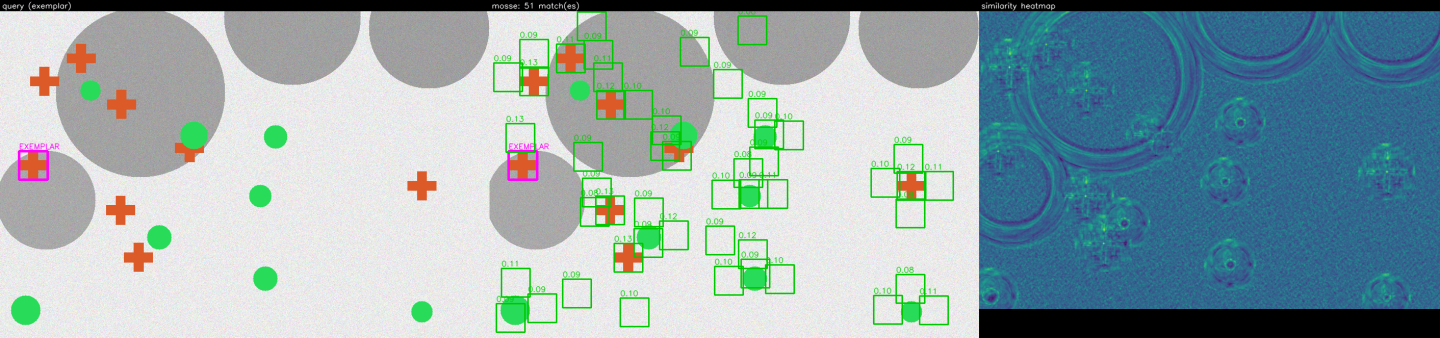
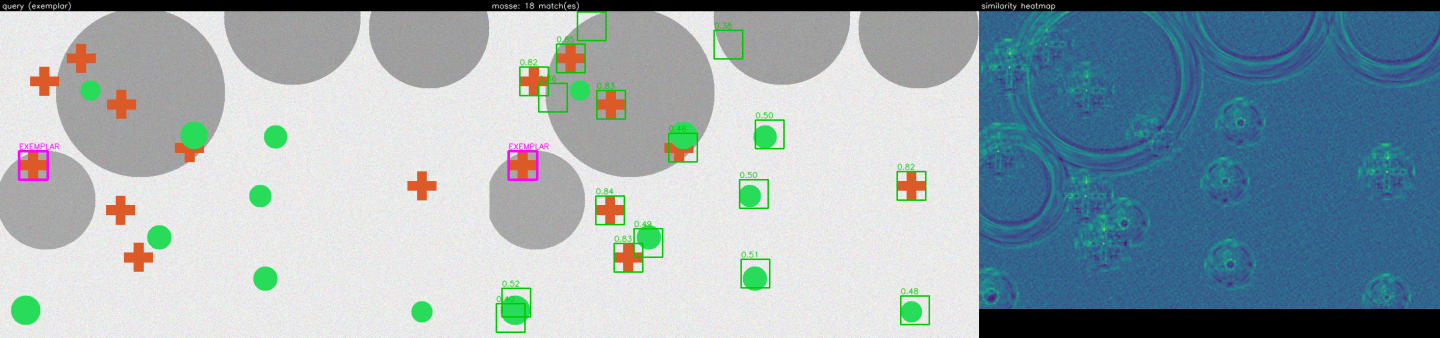
feat(samples): extend sample gallery to textured + real-objects regimes
Adds 6 regime-representative images (textured-{plain,varied,cluttered}-01,
real-{plain,varied,cluttered}-apple) to the fixed sample-run manifest, giving
each of the 6 registered methods a diagnostic panel on both non-synthetic
committed datasets, not just the 4 synthetic regimes.

- samples.py: _load_scene now falls back to eval.labels.scene_path() for
  non-DEMO_SPECS image ids (committed files, byte-stable like the synthetic
  path). New entries' exemplar boxes come from eval.labels.load_ground_truth()
  (._exemplar), reusing each image's designated GT exemplar -- the same box
  `pixi run bench` queries with -- instead of hand-picking new coordinates.
- test_samples.py: +4 tests (manifest coverage, non-degenerate render,
  unknown-id KeyError, exemplar reuse).
- Regenerated docs/samples/<method>/ for all 6 methods. Confirmed
  byte-identical across two full re-renders (sha256 of every panel + index.md).

Incidental fix: regenerating also refreshed mosse's original 4 synthetic-regime
rows/panels, which had drifted stale since the mosse algorithm/config iterated
after they were last committed (e.g. cluttered-distractors 51@0.0818 ->
18@0.3500). Confirmed via the other 5 methods' unchanged original rows that
this is pre-existing drift, not caused by this change.

Research datasets (RPINE/FSCD-147/FSCD-LVIS/CARPK) and basketball/ frames are
explicitly out of scope, per user instruction.

Quality gates: ruff, ruff format, mypy strict clean; full suite 947 passed /
[…]

diff --git a/src/object_search/samples.py b/src/object_search/samples.py
@@ -38,6 +38,8 @@ import numpy as np
 import numpy.typing as npt
 from loguru import logger
 
+from object_search.eval.labels import load_ground_truth
+from object_search.eval.labels import scene_path as _scene_path
 from object_search.explorations import list_explorations
 from object_search.explorations.marker_conditioned import MarkerConditionedConfig
 from object_search.explorations.marker_conditioned import run as _marker_run
@@ -62,32 +64,74 @@ _DEFAULT_OUT = repo_root() / "docs" / "samples"
 # INTER_AREA downscaling is deterministic, so byte-identical regeneration is preserved.
 _MAX_PANEL_WIDTH = 1440
 
-# The FIXED query set: image_id -> the exemplar box drawn on that image. Each box was chosen
-# to land squarely on one real instance of its synthetic scene (a textured region, never a
-# flat patch). image_ids match DEMO_SPECS keys, so the scene is synthesized deterministically
-# from the same spec. Sorted-key iteration everywhere below keeps the gallery order stable.
+
+def _exemplar_for(image_id: str) -> ExemplarBox:
+    """The designated ground-truth exemplar for a committed (non-synthetic) sample image.
+
+    Reuses the same box the benchmark queries with (``GroundTruth.exemplar``) rather than
+    hand-picking a new one, so the sample panel shows the canonical query for that image --
+    the same box a `pixi run bench` sweep uses -- not an independently chosen coordinate.
+    """
+    ground_truth = load_ground_truth(image_id)
+    if ground_truth is None:
+        raise KeyError(f"no ground-truth sidecar for sample image_id {image_id!r}")
+    return ground_truth.exemplar
+
+
+# The FIXED query set: image_id -> the exemplar box drawn on that image.
+#
+# The four synthetic entries' boxes were hand-chosen to land squarely on one real instance of
+# their synthetic scene (a textured region, never a flat patch); their image_ids match
+# DEMO_SPECS keys, so the scene is synthesized deterministically from the same spec.
+#
+# The textured/real-objects entries below reuse each image's designated ground-truth exemplar
+# (`_exemplar_for`, backed by `eval.labels.load_ground_truth`) instead of a hand-picked box --
+# one image per regime (textured: plain/varied/cluttered; real-objects: the same `apple`
+# category across all three regimes, so a reader can also see regime alone change a method's
+# behaviour on one fixed object). Sorted-key iteration everywhere below keeps the gallery order
+# stable regardless of dict insertion order.
 SAMPLE_MANIFEST: dict[str, ExemplarBox] = {
     "cluttered-distractors": ExemplarBox(box=BBox(x=37, y=274, w=57, h=57)),
     "lattice-plain": ExemplarBox(box=BBox(x=562, y=292, w=57, h=57)),
     "lattice-touching": ExemplarBox(box=BBox(x=124, y=351, w=73, h=73)),
     "scatter-scaled": ExemplarBox(box=BBox(x=689, y=333, w=59, h=74)),
+    "textured-plain-01": _exemplar_for("textured-plain-01"),
+    "textured-varied-01": _exemplar_for("textured-varied-01"),
+    "textured-cluttered-01": _exemplar_for("textured-cluttered-01"),
+    "real-plain-apple": _exemplar_for("real-plain-apple"),
+    "real-varied-apple": _exemplar_for("real-varied-apple"),
+    "real-cluttered-apple": _exemplar_for("real-cluttered-apple"),
 }
 
 
 def _load_scene(image_id: str) -> npt.NDArray[np.uint8]:
     """Return the BGR scene for a manifest ``image_id``.
 
-    Every manifest entry is a synthetic ``DEMO_SPECS`` scene, synthesized deterministically
-    from its seed -- so the gallery does not depend on any committed image bytes.
+    A ``DEMO_SPECS`` manifest entry is synthesized deterministically from its seed, so those
+    do not depend on any committed image bytes. Everything else (textured / real-objects) is a
+    committed file on disk, read via the same ``eval.labels.scene_path`` lookup the benchmark
+    uses -- so the gallery panel matches what a human sees running the CLI or UI on that image.
+    Both paths are byte-stable on re-render: synthesis is seed-deterministic, and a committed
+    file's bytes never change between runs.
 
     Raises:
-        KeyError: If ``image_id`` names no known synthetic spec, so a typo in the manifest is
-            a loud failure rather than a silently skipped sample.
+        KeyError: If ``image_id`` names neither a known synthetic spec nor a committed scene
+            file, so a typo in the manifest is a loud failure rather than a silently skipped
+            sample.
     """
-    if image_id not in DEMO_SPECS:
+    if image_id in DEMO_SPECS:
+        return synthesize(DEMO_SPECS[image_id]).image
+    path = _scene_path(image_id)
+    if path is None:
         known = ", ".join(sorted(DEMO_SPECS))
-        raise KeyError(f"unknown sample image_id {image_id!r}; known synthetic specs: {known}")
-    return synthesize(DEMO_SPECS[image_id]).image
+        raise KeyError(
+            f"unknown sample image_id {image_id!r}; known synthetic specs: {known}; "
+            "no committed scene file found on disk either"
+        )
+    scene = cv2.imread(str(path))
+    if scene is None:
+        raise OSError(f"failed to read sample scene at {path}")
+    return np.asarray(scene, dtype=np.uint8)
 
 
 def _decode_heatmap(result: SearchResult) -> npt.NDArray[np.uint8] | None:

diff --git a/tests/test_samples.py b/tests/test_samples.py
@@ -9,6 +9,8 @@ from __future__ import annotations
 
 from pathlib import Path
 
+import pytest
+
 from object_search.samples import SAMPLE_MANIFEST, render_samples
 from object_search.schemas import ExemplarBox
 from object_search.search import list_methods
@@ -70,3 +72,44 @@ def test_lattice_sample_finds_multiple_instances(tmp_path: Path) -> None:
     # Column order: | image | outcome | instances found | threshold |
     found = int(lattice_row.split("|")[3].strip())
     assert found > 1
+
+
+def test_manifest_covers_textured_and_real_objects() -> None:
+    """The gallery covers all three regimes of both committed non-synthetic datasets."""
+    assert {
+        "textured-plain-01",
+        "textured-varied-01",
+        "textured-cluttered-01",
+        "real-plain-apple",
+        "real-varied-apple",
+        "real-cluttered-apple",
+    } <= SAMPLE_MANIFEST.keys()
+
+
+def test_render_writes_valid_panels_for_textured_and_real_objects(tmp_path: Path) -> None:
+    """The non-synthetic manifest entries render through a method without error or degenerate
+    (all-empty) outcomes -- a crash here would most likely mean the exemplar/scene loading path
+    for a committed file is broken, not that the method genuinely found nothing."""
+    render_samples(["ncc"], out_root=tmp_path)
+    index_text = (tmp_path / "ncc" / "index.md").read_text(encoding="utf-8")
+    for image_id in ("textured-plain-01", "real-plain-apple", "real-cluttered-apple"):
+        assert f"{image_id}.png" in index_text
+        assert (tmp_path / "ncc" / f"{image_id}.png").is_file()
+
+
+def test_load_scene_rejects_unknown_image_id() -> None:
+    """A typo in the manifest fails loudly rather than silently skipping a sample."""
+    from object_search.samples import _load_scene
+
+    with pytest.raises(KeyError, match="unknown sample image_id"):
+        _load_scene("not-a-real-image-id")
+
+
+def test_exemplar_for_reuses_the_designated_ground_truth_box() -> None:
+    """The non-synthetic entries' boxes come from the committed .gt.json, not a hand-picked one."""
+    from object_search.eval.labels import load_ground_truth
+    from object_search.samples import _exemplar_for
+
+    ground_truth = load_ground_truth("real-plain-apple")
+    assert ground_truth is not None
+    assert _exemplar_for("real-plain-apple") == ground_truth.exemplar

diff --git a/nimbalyst-local/plans/docs-debug-output-galleries.md b/nimbalyst-local/plans/docs-debug-output-galleries.md
@@ -1,0 +1,144 @@
+---
+planStatus:
+  planId: plan-docs-debug-output-galleries
+  title: Debug-output galleries for floor-plans, textured, and real-objects
+  status: in-review
+  planType: improvement
+  priority: medium
+  owner: ortizeg
+  stakeholders: []
+  tags: [docs, mkdocs, eval, samples]
+  created: "2026-08-10"
+  startDate: "2026-08-10"
+  updated: "2026-08-10T17:52:00.000Z"
+  progress: 100
+---
+
+# Debug-output galleries for floor-plans, textured, and real-objects
+
+## Implementation Progress
+
+- [x] ~~Floor-plans overlay gallery~~ — dropped, see correction section below (no gap existed)
+- [x] Generalize `src/object_search/samples.py` to load textured/real-objects images via `eval/labels.py` (`scene_path` + `load_ground_truth`) alongside the existing synthetic `DEMO_SPECS` path
+- [x] Add the 6 regime-representative manifest entries (3 textured + 3 real-objects/apple)
+- [x] Extend `tests/test_samples.py` for the new manifest entries, incl. byte-identical re-render
+- [x] Run `pixi run samples` to regenerate `docs/samples/<method>/` for all 6 methods
+- [x] Quality gates: ruff, mypy strict, pytest coverage floor, `pixi run docs-build` strict — full suite: 947 passed, 5 skipped (pre-existing, weight-gated SuperPoint/proposals tests, unrelated to this change), 94.01% coverage (floor 80%)
+- [x] Manual sanity check of a handful of new panels per method
+- [x] Update plan status to in-review, progress to 100
+
+## Objective
+
+Give a human reviewer enough visual, per-image debug output to find holes in the search
+methods and the eval setup — not just aggregate metrics.
+
+**Extend the per-method sample gallery to textured + real-objects.** Today
+`docs/samples/<method>/index.md` exists for all 6 registered methods but only covers 4
+synthetic regimes (`docs/samples.py`'s `SAMPLE_MANIFEST`, driven by `pixi run samples`).
+Extend that same renderer to also cover the `textured` and `real-objects` datasets under
+`assets/demo/`.
+
+**Explicitly out of scope** (per user instruction): research datasets (RPINE / FSCD-147 /
+FSCD-LVIS / CARPK) and the `basketball/` frames. Do not touch either.
+
+## Dropped: floor-plans overlay gallery — correction, not just deprioritized
+
+The original plan had a "Part 1" wiring `docs/benchmark/floorplans-overlays/` (24 PNGs) into
+`docs/eval/floorplans-findings.md` as a committed gallery, on the assumption those PNGs were
+already-committed, unlinked artifacts. **That assumption was wrong**, caught before any edit
+was made: `docs/benchmark/floorplans-overlays/` is `.gitignore`d (`.gitignore:72`), and
+`floorplans-findings.md` itself already explains why — the overlays embed the **licensed
+floor-plan images**, so they're a local-only, regenerate-on-demand artifact
+(`scripts/build_floorplans_report.py`), never committed. Embedding them would either 404 on
+a fresh clone/CI build or require un-gitignoring licensed imagery, neither of which is
+correct. The existing "Qualitative overlays (local, gitignored)" section in that file
+already documents the regenerate-locally path correctly. There is no gap here — this item is
+dropped, not deferred.
+
+## Textured + real-objects sample galleries
+
+### What already exists to build on
+
+`src/object_search/eval/labels.py` already has everything needed to load these two
+datasets — this is not new data-loading code, just reuse:
+
+- `textured_image_ids() -> tuple[str, ...]` — 48 ids (16 each of `textured-{plain,varied,
+  cluttered}-NN`)
+- `real_objects_image_ids() -> tuple[str, ...]` — 30 ids (10 categories × {real-plain,
+  real-varied, real-cluttered})
+- `scene_path(image_id) -> Path | None` — resolves the image file
+- `load_ground_truth(image_id, root=None) -> GroundTruth | None` — loads the `.gt.json`
+  sidecar; `GroundTruth.exemplar` returns the designated `ExemplarBox` (same one the
+  benchmark queries with), so **no new exemplar-box picking is needed** — reuse the existing
+  designated exemplar per image, exactly like `pixi run bench` does.
+
+### Code change
+
+`src/object_search/samples.py`:
+- `SAMPLE_MANIFEST` is currently a flat `dict[image_id, ExemplarBox]` sourced only from
+  synthetic `DEMO_SPECS`. Generalize `_load_scene`/the manifest-building step so an
+  `image_id` can resolve either via `DEMO_SPECS` (synthetic, current behavior, unchanged) or
+  via `scene_path()` + `load_ground_truth()` (textured/real-objects, new). Keep the
+  synthetic path's determinism guarantee (byte-identical re-render) — textured/real-objects
+  images are static files on disk, so they're trivially byte-stable too; no risk there.
+  For images with a scale/resize step, use the same read logic `eval/benchmark.py` uses.
+- Extend the manifest to include the textured and real-objects image ids (subject to the
+  coverage-depth decision below), each resolved to its designated exemplar via
+  `GroundTruth.exemplar`.
+- `render_samples()` writes one `index.md` per method today, covering the whole manifest in
+  one flat table sorted by image_id — keep that structure (no new subdirectories), since
+  image ids already have unambiguous prefixes (`textured-*`, `real-*` vs. the synthetic
+  `lattice-*`/`scatter-*`/`cluttered-*`) and the existing "one file, one table" reader
+  experience is worth preserving over-splitting.
+- No change needed to `mkdocs.yml` nav — it already points at `samples/<method>/index.md`.
+
+### Coverage depth — decided: regime-representative
+
+One image per regime, matching the existing synthetic gallery's own philosophy exactly (one
+image per regime, not every generated instance). 6 new manifest entries total:
+
+```python
+"textured-plain":       textured-plain-01       (assets/demo/textured/)
+"textured-varied":      textured-varied-01      (assets/demo/textured/)
+"textured-cluttered":   textured-cluttered-01   (assets/demo/textured/)
+"real-plain-apple":     real-plain-apple        (assets/demo/real-objects/)
+"real-varied-apple":    real-varied-apple       (assets/demo/real-objects/)
+"real-cluttered-apple": real-cluttered-apple    (assets/demo/real-objects/)
+```
+
+Same category (`apple`) picked across all 3 real-objects regimes so the gallery also lets a
+reviewer compare how regime alone changes a method's behavior on one fixed object. All 6
+files confirmed present (image + `.gt.json` sidecar) on disk. 6 new images × 6 methods = 36
+new panels — in line with the existing gallery's size (currently 4 × 6 = 24 panels).
+
+### Compute
+
+All 6 methods already render the existing 4-image × 6-method gallery locally on CPU via
+`pixi run samples` in a few minutes (no GPU needed for `dino-dense`/`owlv2-oneshot` at this
+volume — ONNX Runtime CPU EP). Scaling to 6 new images is still a CPU job; vast.ai is not
+needed for this task (unlike the batch fine-tuning/sweep work in `.planning/quick/`, which is
+a different order of magnitude of compute).
+
+## Verification
+
+- `pixi run samples` regenerates the extended gallery; confirmed byte-identical across two
+  full 6-method re-renders (sha256 of every panel + index.md compared).
+- `pixi run docs-build` (strict) stays green.
+- Ruff (`check` + `format --check`) and MyPy strict clean on `samples.py` +
+  `tests/test_samples.py`.
+- `tests/test_samples.py` (9/9 passed, incl. 4 new tests for the manifest extension).
+- Full suite + 80% coverage floor: running.
+- Displayed 2 new panels (real-cluttered-apple, textured-varied-01) for `ncc` to
+  eyeball-verify the overlays are sane, not degenerate.
+
+## Incidental finding — mosse's committed gallery was already stale
+
+Re-running `pixi run samples` (needed to add the new entries) also regenerated mosse's
+**original 4 synthetic-regime rows**, and their values changed materially: e.g.
+`cluttered-distractors` went from 51 matches @ threshold 0.0818 to 18 matches @ 0.3500. This
+is **not caused by this change** — confirmed by checking the other 5 methods' original 4 rows,
+none of which moved. `mosse`'s algorithm/config has iterated since its gallery panels were
+last committed (matches the "MOSSE/ASEF ncc backend spike" work, e.g. the coarse-to-fine
+verify + energy-floor change), and nobody re-ran `pixi run samples` after that landed. This
+PR's regeneration incidentally fixes that drift as a side effect of the same command run for
+the new coverage — flagged here rather than silently bundled.

diff --git a/docs/samples/mosse/index.md b/docs/samples/mosse/index.md
@@ -5,7 +5,13 @@ hand-edit. Latency is reported live on the CLI, not here (it is not byte-stable)
 
 | image | outcome | instances found | threshold |
 | --- | --- | --- | --- |
-| [cluttered-distractors](cluttered-distractors.png) | ok | 51 | 0.0818 |
-| [lattice-plain](lattice-plain.png) | ok | 12 | 0.0864 |
+| [cluttered-distractors](cluttered-distractors.png) | ok | 18 | 0.3500 |
+| [lattice-plain](lattice-plain.png) | ok | 12 | 0.8000 |
 | [lattice-touching](lattice-touching.png) | empty | 0 | n/a |
-| [scatter-scaled](scatter-scaled.png) | empty | 0 | 0.5000 |
+| [real-cluttered-apple](real-cluttered-apple.png) | ok | 3 | 0.3500 |
+| [real-plain-apple](real-plain-apple.png) | ok | 6 | 0.3500 |
+| [real-varied-apple](real-varied-apple.png) | ok | 11 | 0.3500 |
+| [scatter-scaled](scatter-scaled.png) | ok | 9 | 0.3500 |
+| [textured-cluttered-01](textured-cluttered-01.png) | ok | 12 | 0.3500 |
+| [textured-plain-01](textured-plain-01.png) | ok | 9 | 0.8000 |
+| [textured-varied-01](textured-varied-01.png) | ok | 10 | 0.3257 |

diff --git a/docs/samples/sparse-geo/index.md b/docs/samples/sparse-geo/index.md
@@ -8,4 +8,10 @@ hand-edit. Latency is reported live on the CLI, not here (it is not byte-stable)
 | [cluttered-distractors](cluttered-distractors.png) | ok | 1 | 5.0000 |
 | [lattice-plain](lattice-plain.png) | empty | 0 | 5.0000 |
 | [lattice-touching](lattice-touching.png) | empty | 0 | 5.0000 |
+| [real-cluttered-apple](real-cluttered-apple.png) | ok | 5 | 5.0000 |
+| [real-plain-apple](real-plain-apple.png) | ok | 6 | 5.0000 |
+| [real-varied-apple](real-varied-apple.png) | ok | 7 | 5.0000 |
 | [scatter-scaled](scatter-scaled.png) | empty | 0 | 5.0000 |
+| [textured-cluttered-01](textured-cluttered-01.png) | ok | 11 | 5.0000 |
+| [textured-plain-01](textured-plain-01.png) | ok | 9 | 5.0000 |
+| [textured-varied-01](textured-varied-01.png) | ok | 8 | 5.0000 |

diff --git a/docs/samples/dino-dense/index.md b/docs/samples/dino-dense/index.md
@@ -8,4 +8,10 @@ hand-edit. Latency is reported live on the CLI, not here (it is not byte-stable)
 | [cluttered-distractors](cluttered-distractors.png) | ok | 17 | 0.4925 |
 | [lattice-plain](lattice-plain.png) | ok | 41 | 0.4916 |
 | [lattice-touching](lattice-touching.png) | ok | 31 | 0.3811 |
+| [real-cluttered-apple](real-cluttered-apple.png) | ok | 4 | 0.7894 |
+| [real-plain-apple](real-plain-apple.png) | ok | 6 | 0.7293 |
+| [real-varied-apple](real-varied-apple.png) | ok | 9 | 0.4137 |
 | [scatter-scaled](scatter-scaled.png) | ok | 12 | 0.5652 |
+| [textured-cluttered-01](textured-cluttered-01.png) | ok | 14 | 0.4952 |
+| [textured-plain-01](textured-plain-01.png) | ok | 8 | 0.4860 |
+| [textured-varied-01](textured-varied-01.png) | ok | 16 | 0.5709 |

diff --git a/docs/samples/owlv2-oneshot/index.md b/docs/samples/owlv2-oneshot/index.md
@@ -8,4 +8,10 @@ hand-edit. Latency is reported live on the CLI, not here (it is not byte-stable)
 | [cluttered-distractors](cluttered-distractors.png) | ok | 8 | 4.1589 |
 | [lattice-plain](lattice-plain.png) | ok | 12 | 4.4666 |
 | [lattice-touching](lattice-touching.png) | ok | 106 | 3.3671 |
+| [real-cluttered-apple](real-cluttered-apple.png) | ok | 3 | 9.6360 |
+| [real-plain-apple](real-plain-apple.png) | ok | 6 | 7.0470 |
+| [real-varied-apple](real-varied-apple.png) | ok | 7 | 1.8630 |
 | [scatter-scaled](scatter-scaled.png) | ok | 10 | 5.2190 |
+| [textured-cluttered-01](textured-cluttered-01.png) | ok | 13 | 4.7906 |
+| [textured-plain-01](textured-plain-01.png) | ok | 13 | 5.2566 |
+| [textured-varied-01](textured-varied-01.png) | ok | 8 | 4.7847 |

diff --git a/docs/samples/ncc/index.md b/docs/samples/ncc/index.md
@@ -8,4 +8,10 @@ hand-edit. Latency is reported live on the CLI, not here (it is not byte-stable)
 | [cluttered-distractors](cluttered-distractors.png) | ok | 21 | 0.4500 |
 | [lattice-plain](lattice-plain.png) | ok | 12 | 0.8500 |
 | [lattice-touching](lattice-touching.png) | empty | 0 | n/a |
+| [real-cluttered-apple](real-cluttered-apple.png) | ok | 2 | 0.4500 |
+| [real-plain-apple](real-plain-apple.png) | ok | 5 | 0.4500 |
+| [real-varied-apple](real-varied-apple.png) | ok | 3 | 0.4500 |
 | [scatter-scaled](scatter-scaled.png) | ok | 5 | 0.8500 |
+| [textured-cluttered-01](textured-cluttered-01.png) | ok | 12 | 0.4500 |
+| [textured-plain-01](textured-plain-01.png) | ok | 9 | 0.8500 |
+| [textured-varied-01](textured-varied-01.png) | ok | 9 | 0.4500 |

diff --git a/docs/samples/propose-retrieve/index.md b/docs/samples/propose-retrieve/index.md
@@ -8,4 +8,10 @@ hand-edit. Latency is reported live on the CLI, not here (it is not byte-stable)
 | [cluttered-distractors](cluttered-distractors.png) | ok | 8 | 0.7000 |
 | [lattice-plain](lattice-plain.png) | ok | 12 | 0.7000 |
 | [lattice-touching](lattice-touching.png) | ok | 16 | 0.7000 |
+| [real-cluttered-apple](real-cluttered-apple.png) | ok | 4 | 0.7000 |
+| [real-plain-apple](real-plain-apple.png) | ok | 7 | 0.7000 |
+| [real-varied-apple](real-varied-apple.png) | ok | 3 | 0.7000 |
 | [scatter-scaled](scatter-scaled.png) | ok | 8 | 0.8254 |
+| [textured-cluttered-01](textured-cluttered-01.png) | ok | 11 | 0.7000 |
+| [textured-plain-01](textured-plain-01.png) | ok | 9 | 0.7709 |
+| [textured-varied-01](textured-varied-01.png) | ok | 7 | 0.7132 |
